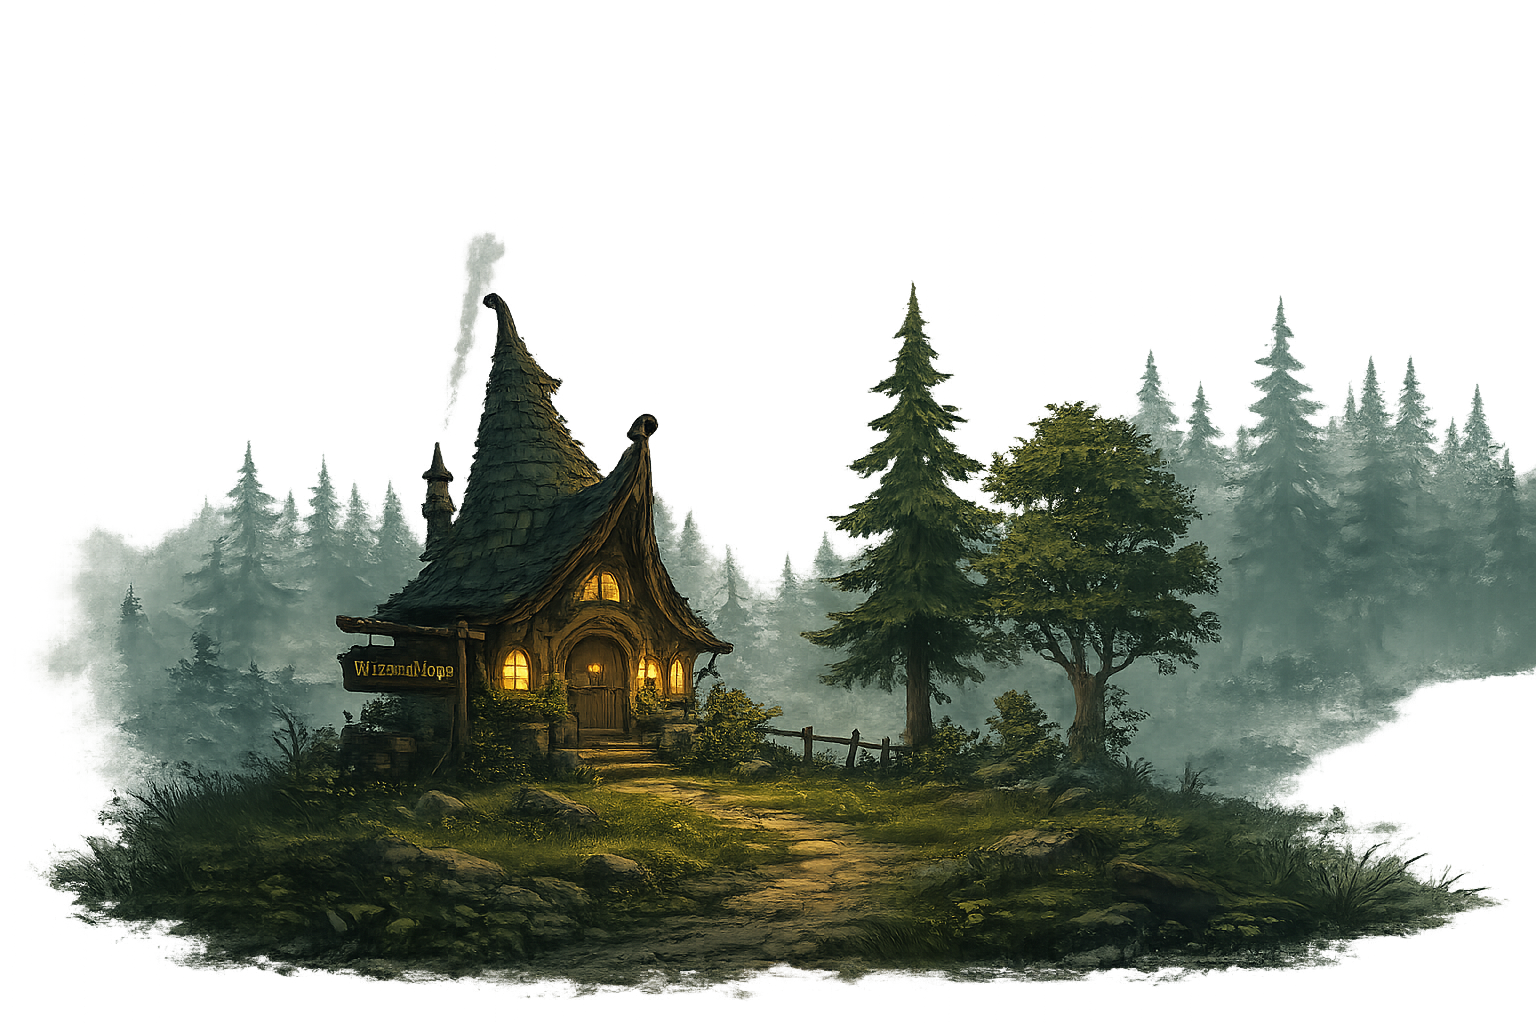
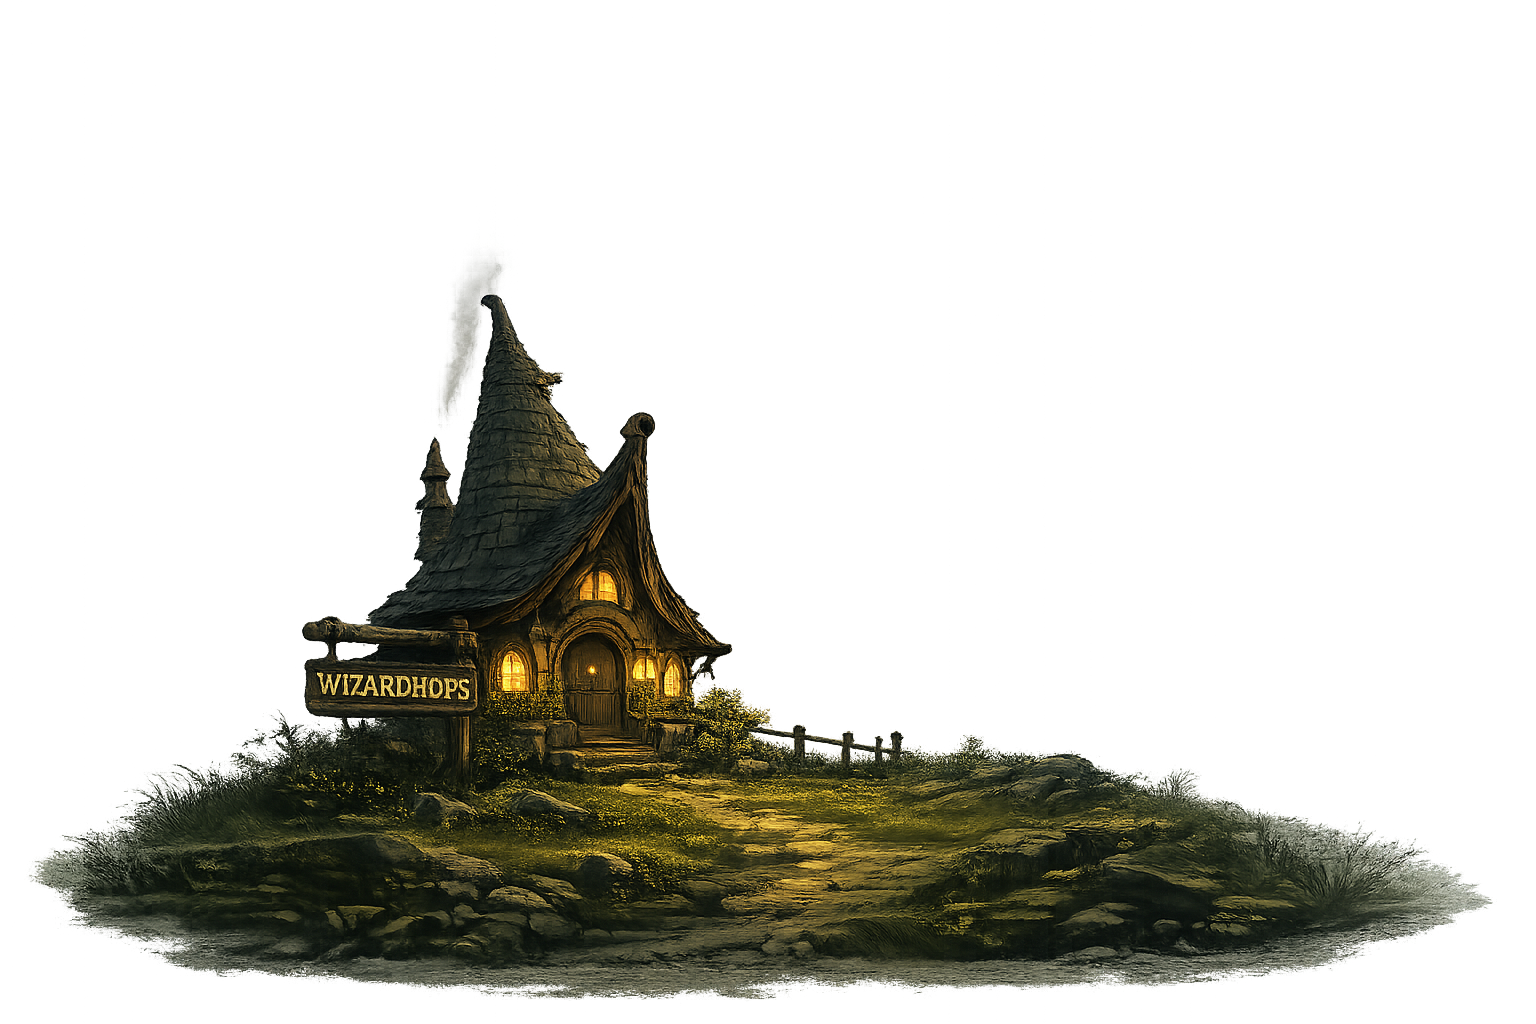
home page responsive

diff --git a/brewing_v2/src/Routes/Home/Home.style.css b/brewing_v2/src/Routes/Home/Home.style.css
@@ -73,12 +73,12 @@
 }
 
 .parallax__trees {
-  --parallax-speed: 6;
+  --parallax-speed: 4;
   z-index: 3;
 }
 
 .parallax__hut {
-  --parallax-speed: 7;
+  --parallax-speed: 10;
   z-index: 4;
 }
 
@@ -147,7 +147,7 @@ img {
 }
 
 .hero__title {
-    color: var(--clr-textt);
+    color: var(--clr-text);
     text-shadow: var(--text-s);
     font-size: 4rem;
     max-width: 20ch;
@@ -603,8 +603,18 @@ img {
         width: var(--w-medium);
     }
 
-    .about-text p {
+    .about-title h2, .book-title h2,
+    .video-title h2 {
+        font-size: 2.3rem;
+    }
+
+    /* .about-text p {
         width: 37%;
+    } */
+
+    .about-title p, .video-title p, .book-title p {
+        font-size: 2.2rem;
+        margin-bottom: .3rem;
     }
 
     .video {
@@ -620,6 +630,11 @@ img {
 
     .banner-title h1 {
         font-size: larger;
+    }
+
+    .about-title h2, .book-title h2,
+    .video-title h2 {
+        font-size: 1.7rem;
     }
 
     .banner-title h1:last-child {
@@ -647,36 +662,22 @@ img {
         font-size: large;
     }
 
-    .slider-description p {
-        font-size: small;
-    }
-
     .slider-description button {
         font-size: x-small;
         padding: .2rem .6rem;
     }
 
-    .home-about h2 {
-        font-size: large;
+    .about-title p, .video-title p, .book-title p {
+        font-size: 1.8rem;
+        margin-bottom: .7rem;
     }
 
-    .about-title p {
-        font-size: large;
-        margin-bottom: 1.3rem;
+    .about-text {
+        width: 90%;
     }
 
     .about-text p {
-        font-size: small;
-        width: 42%;
-    }
-
-    .video-title h2 {
-        font-size: large;
-    }
-
-    .video-title p {
-        font-size: x-large;
-        margin-bottom: 1.2rem;
+        font-size: 1.2rem;
     }
 
     .video {
@@ -691,6 +692,11 @@ img {
     }
     .banner-title h1 {
         font-size: medium;
+    }
+
+    .about-title h2, .book-title h2,
+    .video-title h2 {
+        font-size: 1rem;
     }
 
     .banner-title h1:last-child {
@@ -727,28 +733,18 @@ img {
         padding: .15rem .5rem;
     }
 
-    .home-about h2 {
-        font-size: medium;
-    }
-
     .about-title p {
         font-size: medium;
         margin-bottom: 1.5rem;
     }
 
+    .about-text {
+        width: 100%;
+    }
+
     .about-text p {
-        font-size: x-small;
-        width: 45%;
-    }
-
-    .video-title h2 {
-        font-size: medium;
-        text-align: center;
-    }
-
-    .video-title p {
-        font-size: x-large;
-        margin-bottom: 1.2rem;
+        font-size: 1rem;
+        width: 100%;
     }
 
     .video {
